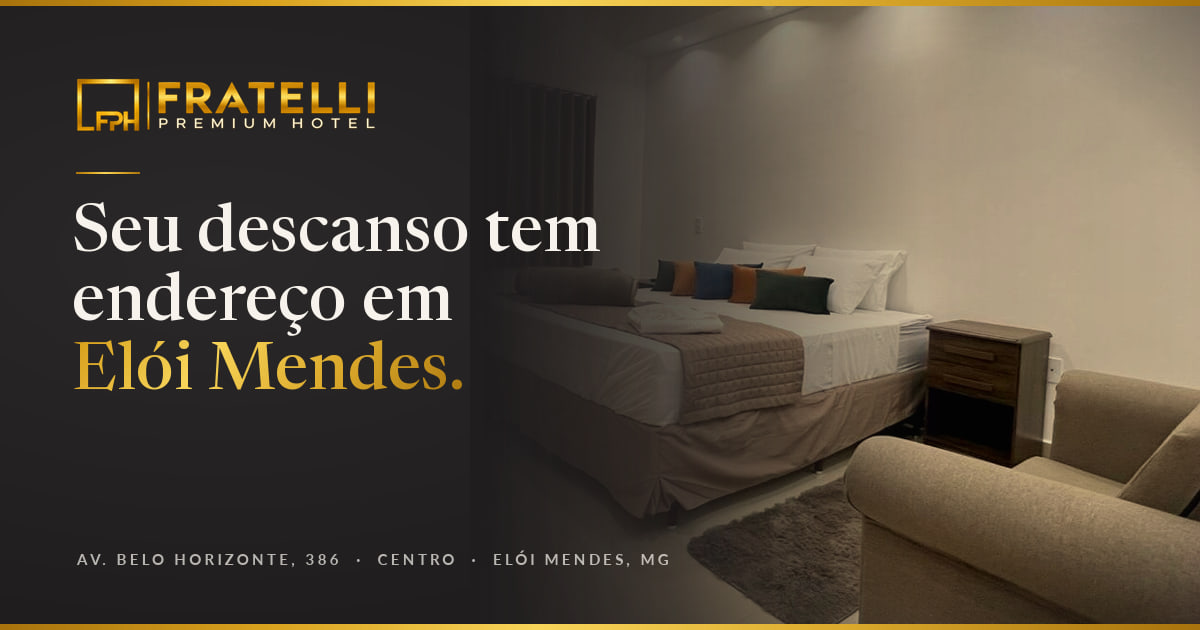
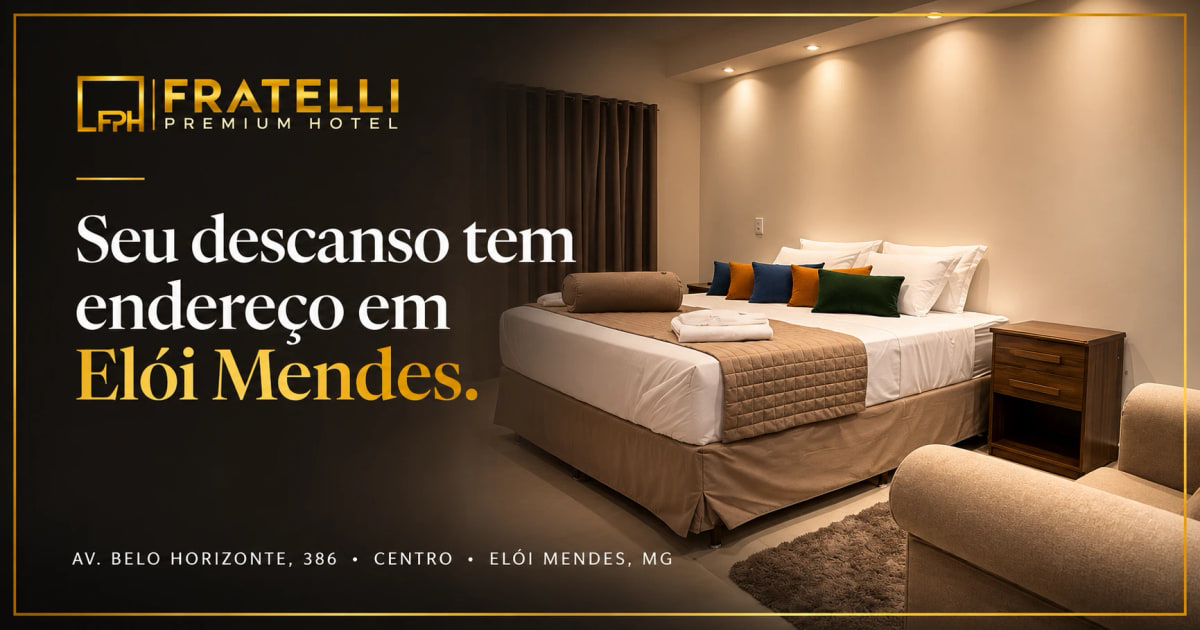
OpenGraph: usa a arte fornecida e remove o gerador
- public/og-image.jpg substituída pela arte do cliente, redimensionada
  para 1200x630 (JPEG, ~140 KB)
- Remove scripts/generate-og.mjs, o comando npm run og e o sharp das
  devDependencies (continua disponível via Astro)
- README atualizado com as orientações para trocar a imagem

diff --git a/README.md b/README.md
@@ -50,7 +50,7 @@ Todo o conteúdo variável fica em `src/data/`:
   - `logo-on-dark.png`: cores originais, usado no rodapé.
   - `monogram.png`: moldura FPH, base dos ícones.
 - Favicon, apple-touch-icon e `icon-512.png` em `public/` foram gerados a partir do logo.
-- **Imagem de compartilhamento (OpenGraph):** `public/og-image.jpg` (1200×630, ~80 KB). É gerada por `npm run og` (`scripts/generate-og.mjs`) com as fontes, as cores e o logo do site. Para trocar a foto ou o texto (por exemplo, quando chegarem fotos profissionais), edite o script e rode o comando de novo.
+- **Imagem de compartilhamento (OpenGraph):** `public/og-image.jpg` (1200×630, ~140 KB), a arte fornecida pelo cliente. Para trocá-la, substitua o arquivo mantendo o nome, as dimensões 1200×630 e o tamanho abaixo de 300 KB (limite prático do WhatsApp).
 - Os tons de dourado e os degradês (`--gradient-gold`, `--gradient-gold-deep`) estão em `src/styles/global.css`, amostrados do logo.
 - Utilitários disponíveis:
   - `bg-gold-metal`: fundo metálico.
